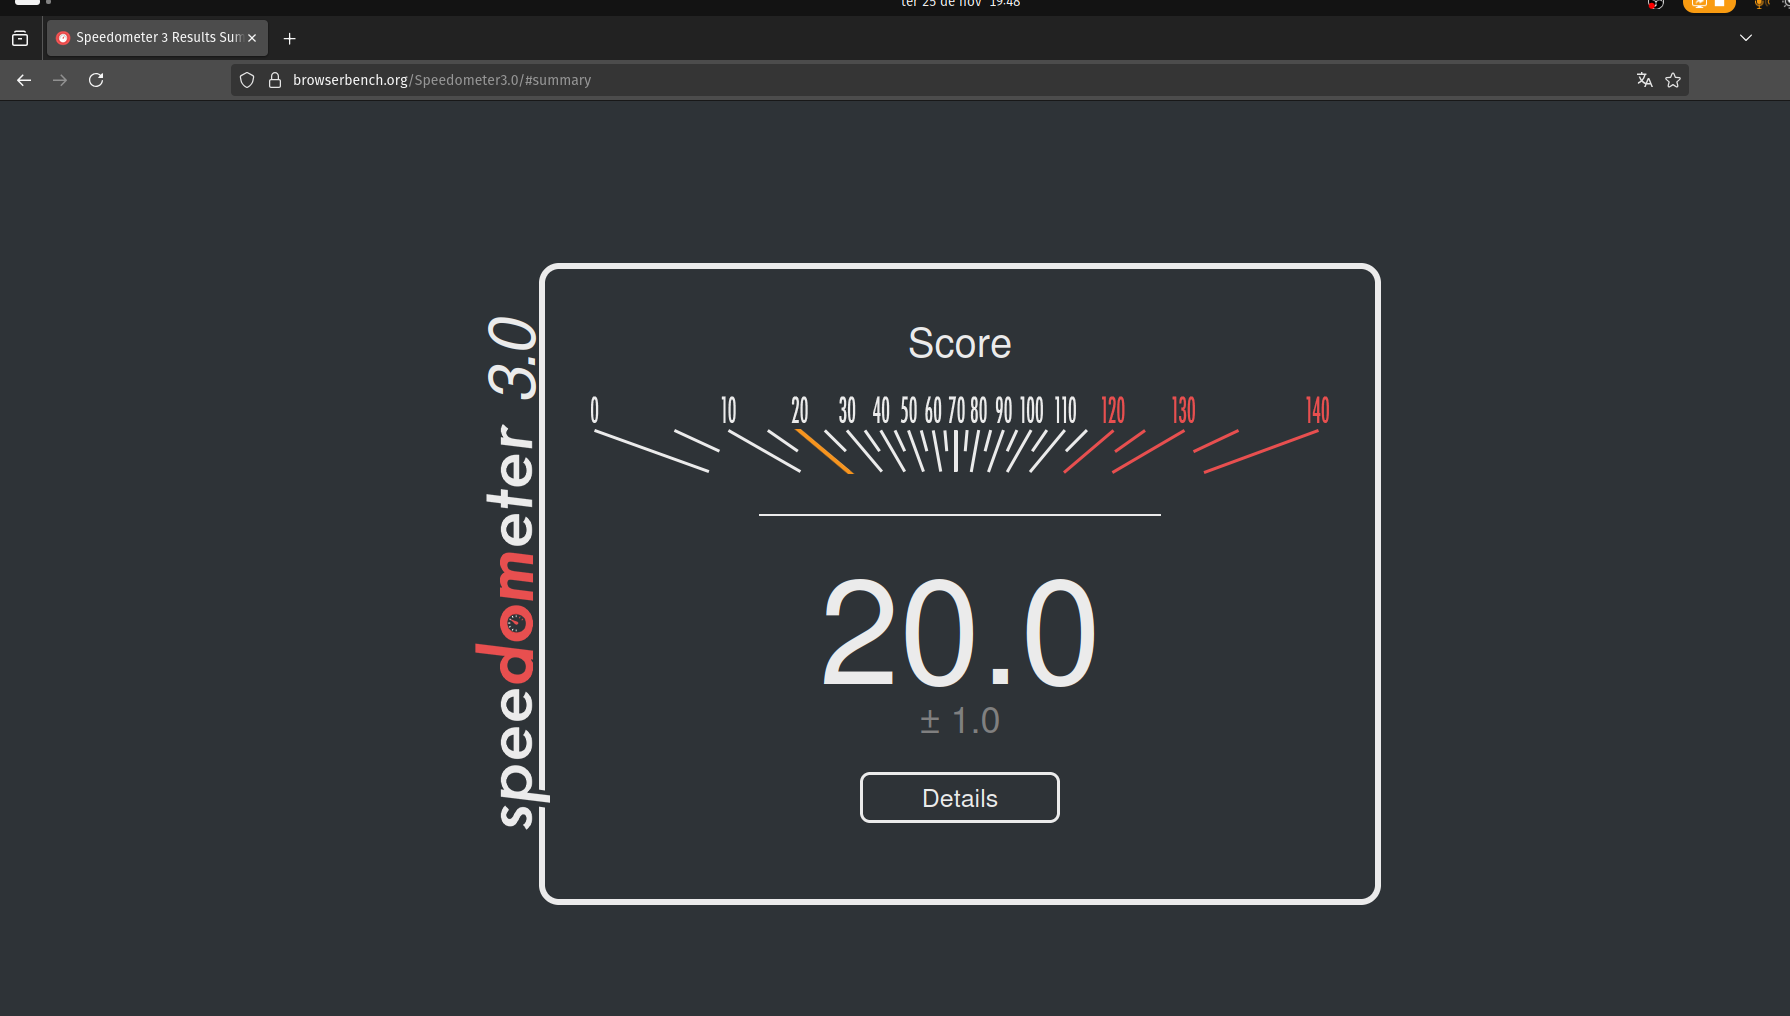
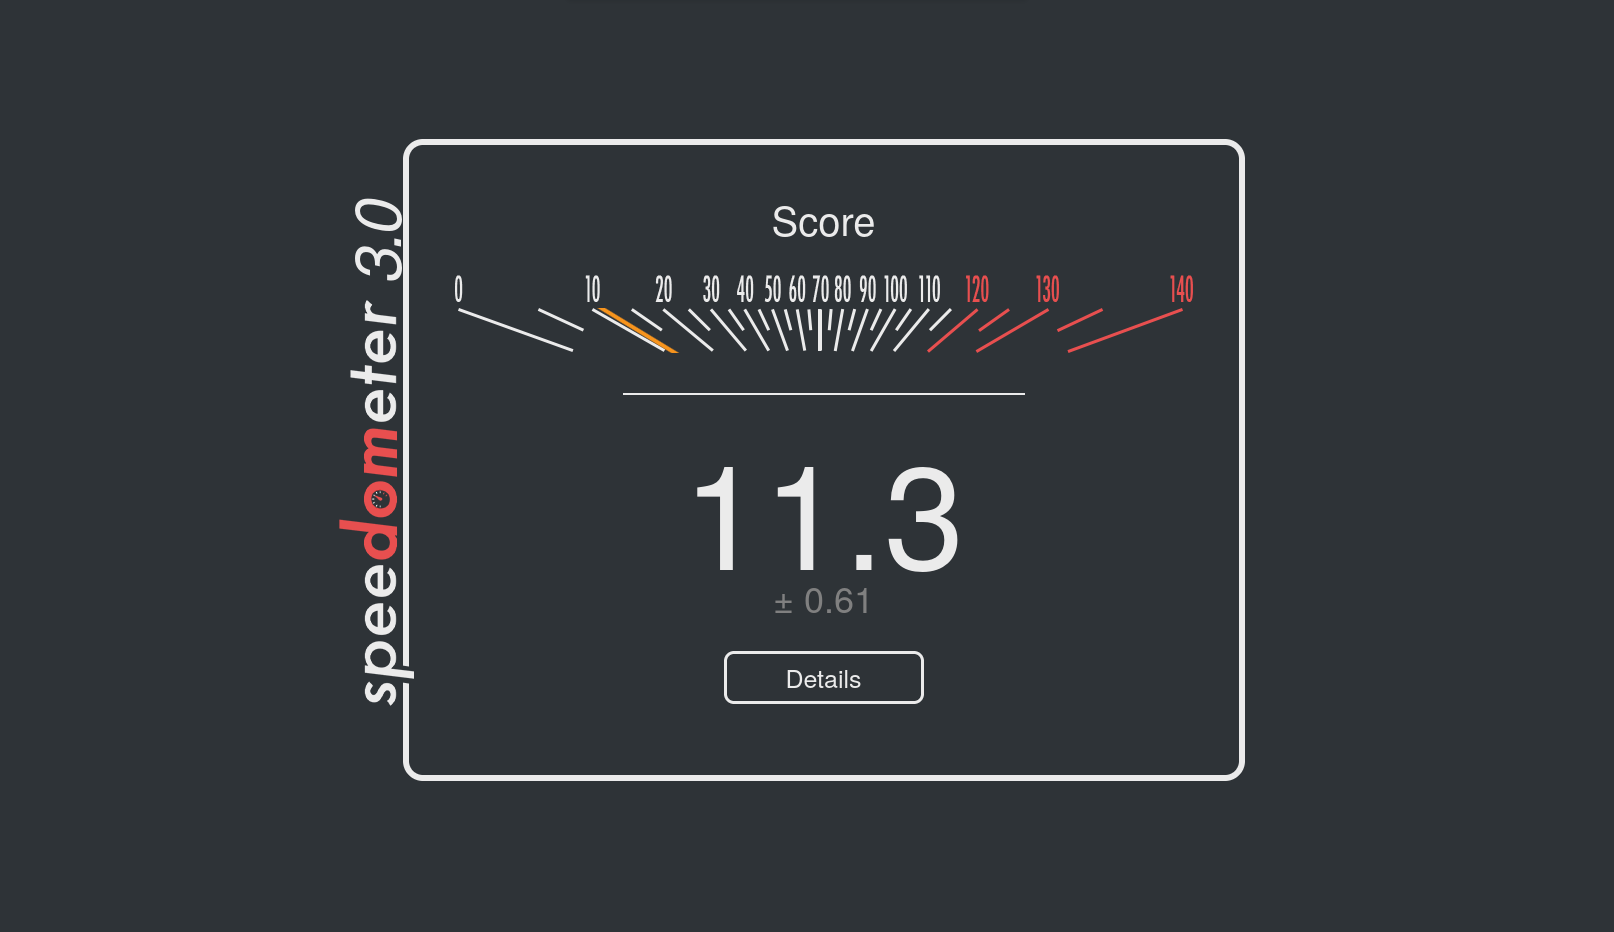
adicionando imagens de benchmarks

Changed region(s): [[0.0, 0.0, 1.0, 0.9024], [0.7125, 0.3734, 0.7435, 0.4356], [0.6815, 0.4356, 0.7125, 0.4667]]

diff --git a/fases/fase4/dados_brutos/linux.md b/fases/fase4/dados_brutos/linux.md
@@ -26,7 +26,10 @@ Para essa métrica, foi evitado faze vídeo, pois o OBS estava consumindo mais R
 
 A seguir, tem um vídeo mostrando a coleta da métrica 1.2, rodando o comando javascript no console de cada página listada na seção [2.4 Lista de Sites Padronizados](../fase3/fase3.md#24-lista-de-sites-padronizados) da [Fase 3](../fase3/fase3.md)
 
-**Evidência de Execução (Vídeo):** [LCP]()
+**Evidência de Execução (Vídeo):** [LCP](https://youtu.be/myw58ekH-ys)
+
+
+
 
 Lista dos sites e suas respectivas LCPs em milissegundos:
 
@@ -59,36 +62,41 @@ Média = 15,087/10 = 1,509s
 
 ### M1.3 - Benchmarks:
 
-**Evidência de Execução (Vídeo):** [Assistir Benchmarks no YouTube](https://youtu.be/QU0Z0jzR_Gw)
+**Evidência de Execução do speedometer 3.0:** [Assistir Benchmarks no YouTube](https://youtu.be/V0c8PsPOvjc)
 
 #### Speedometer 3.0
 
-**Teste 1 (20.9)**
+**Teste 1 (11.1)**
 ![Resultado 1](/assets/linux_assets/speedometer1.png)
+![Detalhe 1](/assets/linux_assets/detalhe1.png)
 
 
-**Teste 2 (20)**
+**Teste 2 (11.3)**
 ![Resultado 2](/assets/linux_assets/speedometer2.png)
+![Detalhe 2](/assets/linux_assets/detalhe2.png)
 
 
-**Teste 3 ()**
-![Resultado 3]()
+**Teste 3 (11.2)**
+![Resultado 3](/assets/linux_assets/speedometer3.png)
+![Detalhe 3](/assets/linux_assets/detalhe3.png)
 
 
-- **Pontuação Representativa (Mediana): 0**
+- **Pontuação Representativa (Mediana): 11.2**
 
 #### JetStream 2
 
-**Teste 1 ()**
-![JetStream 1]()
+**Evidência de Execução do JetStream 2:** [Assistir Benchmarks no YouTube]()
 
-**Teste 2 ()**
-![JetStream 2]()
+**Teste 1 (93.799)**
+![JetStream 1](/assets/linux_assets/jetstream1.png)
 
-**Teste 3 ()**
-![JetStream 3]()
+**Teste 2 (114.774)**
+![JetStream 2](/assets/linux_assets/jetstream2.png)
 
-- **Pontuação Representativa (Mediana): 0**
+**Teste 3 (114.929)**
+![JetStream 3](/assets/linux_assets/jetstream3.png)
+
+- **Pontuação Representativa (Mediana): 114.774**
 
 ---
 
